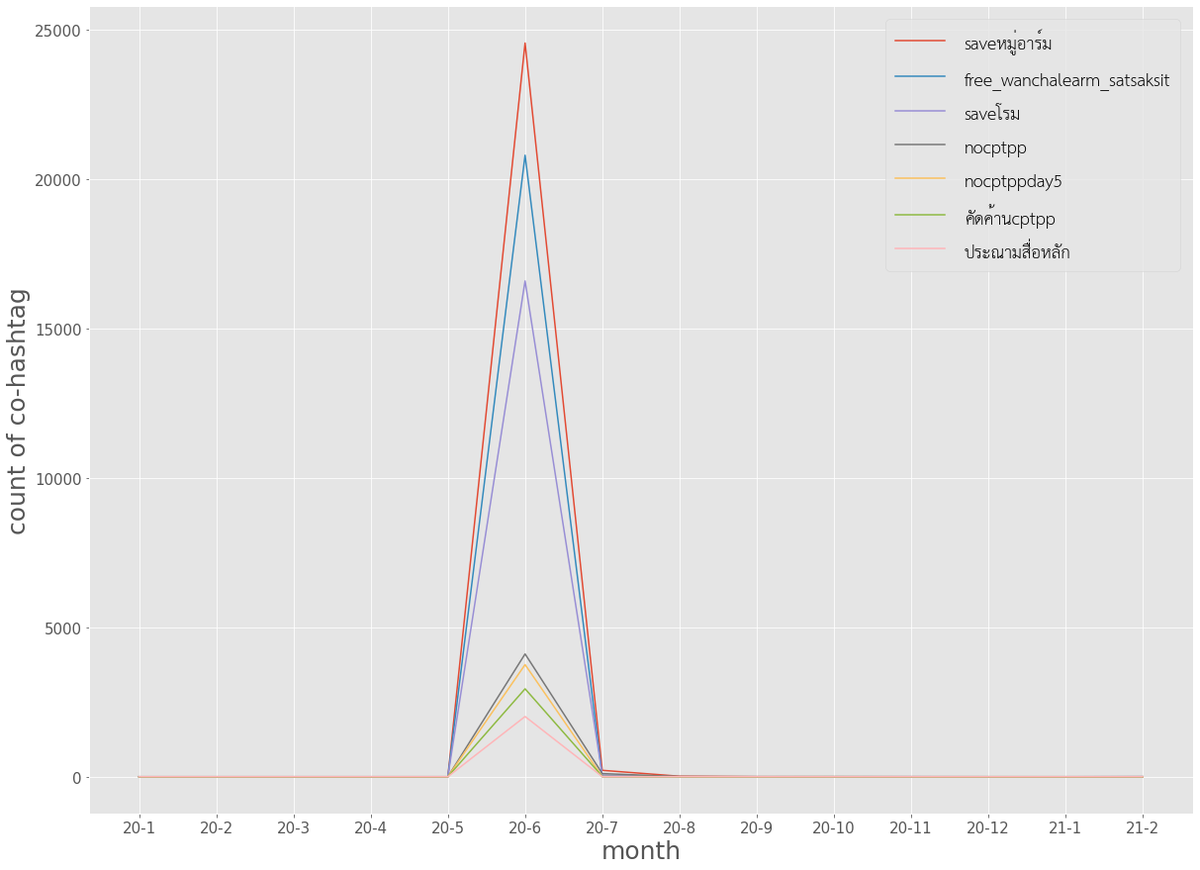
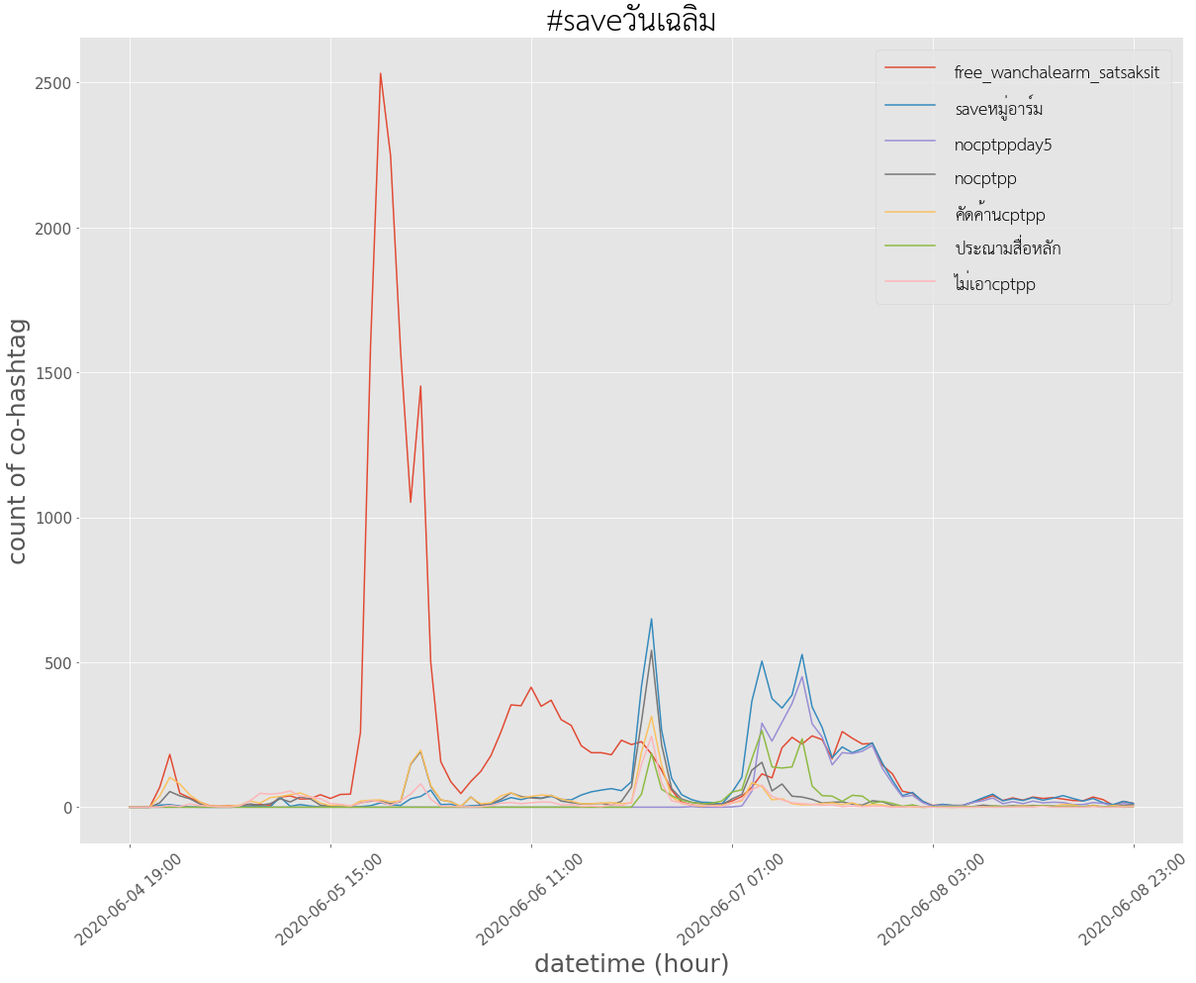
update

diff --git a/reports/events/#saveวันเฉลิม.md b/reports/events/#saveวันเฉลิม.md
@@ -1,0 +1,94 @@
+# `#saveวันเฉลิม`
+
+2020-06-04 19:29:59 ~ 2021-02-28 23:42:19
+peak : __2020-06-05__ , 25721 tweets/day
+
+|||
+|:-:|:-:|
+|tweets that contain the phrase `saveวันเฉลิม` | __97,172__ |
+|tweets that contain the hashtag `#saveวันเฉลิม` | __97,151__ |
+|quote tweets that contain the phrase `saveวันเฉลิม` | __11,697__ |
+|||
+|tweets that contain the phrase `saveวันเฉลิม` __in period__ | __67,600__ |
+
+![count](https://raw.githubusercontent.com/nozomiyamada/twitter_analysis/main/graphs/event/saveวันเฉลิม_count.png)
+
+## oldest 5 tweets
+
+|date|username|tweet|retweet|
+|:-:|:-:|:-:|:-:|
+|[2020-06-04 19:29:59](https://twitter.com/paritchi/status/1268520373798055937)|paritchi|#saveวันเฉลิม #112มีไว้ทำไม|13|
+|[2020-06-04 21:11:59](https://twitter.com/paritchi/status/1268546043555315713)|paritchi|หลังจากที่เคลียร์กับผู้เกี่ยวข้องแล้วเห็นว่าเผยแพร่ได้แล้วจึงขอทวีตอีกครั้ง  ตอนนี้ได้ข่าวว่ามีผู้ลี้ภัยมาตรา 112 พี่วันเฉลิม สัตย์ศักดิ์สิทธิ์ ถูกอุ้มขึ้นรถเก๋งหายไปจากหน้าคอนโดที่พนมเปญตั้งแต่ช่วง 4 โมงเย็น ติดต่อไม่ได้ตอนนี้ยังไม่ทราบชะตากรรม   #มาตรา112 #ม112 #saveวันเฉลิม|2838|
+|[2020-06-04 21:15:18](https://twitter.com/qizle/status/1268546878158901250)|qizle|สรุปโดนอุ้มจริงๆแล้ว และทำตอนที่มีข่าวอื่นด้วย #saveวันเฉลิม|486|
+|[2020-06-04 21:22:22](https://twitter.com/Gf_Yrd/status/1268548654798974978)|gf_yrd|รบกวนพวกดาราเซเลบที่เรียกร้องBLMสนใจทางนี้นิดนึงค่ะ  #saveวันเฉลิม|104|
+|[2020-06-04 21:26:10](https://twitter.com/SetSari/status/1268549610349395972)|setsari|@paritchi #saveวันเฉลิม|2|
+
+
+## most popular 5 tweets
+
+|date|username|tweet|retweet|
+|:-:|:-:|:-:|:-:|
+|[2020-06-05 18:19:42](https://twitter.com/withpepe_/status/1268865073834889216)|withpepe_|ไอ้เหี้ย fact คือคุณวันเฉลิมไม่ได้พุ่งเป้าวิจารณ์สถาบัน แต่วิจารณ์คสช. การวิจารณ์คสช.เป็นโทษตายตั้งแต่เมื่อไหร่? ปท.ไทยกลายเป็นรัฐเผด็จการตั้งแต่เมื่อไหร่? ประชาชนผู้ทรงสิทธิ์ทั้งหลายลุกขึ้นมาเถิด คุณวันเฉลิมและเหล่านักเคลื่อนไหวจะต้องไม่ตายฟรี ! ! #saveวันเฉลิม #ripวันเฉลิม|66884|
+|[2020-06-05 17:17:52](https://twitter.com/TOTOPiyarat/status/1268849510794424322)|totopiyarat|กาฬสินธุ์ เริ่มผุดไอเดีย ป้ายอุ้มวันเฉลิม  ตามมุมเมือง #saveวันเฉลิม  https://t.co/cUSYeAYVgB|49341|
+|[2020-06-04 22:29:30](https://twitter.com/Buffalow19/status/1268565551279816704)|buffalow19|จะต้องมีอีกกี่คนที่หายไปโดยไม่เหลือแม้แต่เศษซากความเป็นมนุษย์ด้วยซ้ำ #Saveวันเฉลิม  https://t.co/SJSn77VduT|45846|
+|[2020-06-06 09:02:44](https://twitter.com/sunaibkk/status/1269087294700482561)|sunaibkk|มีทั้งหลักฐานจากกล้องวงจรปิด มีทั้งพยานที่เห็นเหตุการณ์ แต่ตำรวจกัมพูชาปฏิเสธไม่สอบสวนกรณี”วันเฉลิม สัตย์ศักดิ์สิทธิ์”ผู้ลี้ภัยชาวไทยถูกมือปืนลักพาตัวในกรุงพนมเปญ แถมยังกล่าวหาว่าเรื่องทั้งหมดเป็นข่าวปลอม ทำให้สงสัยว่าทางการกัมพูชามีเอี่ยวอะไรด้วยหรือเปล่า? #saveวันเฉลิม|44479|
+|[2020-06-06 05:47:51](https://twitter.com/Chinki_sanji/status/1269038252217917440)|chinki_sanji|เห็นภาพนี้แล้วแม่งจุกวะ สรุปคนไทยไม่มีสิทธิแสดงความเห็นต่างห่าอะไรเลยกับประเทศนี้ #saveวันเฉลิม  https://t.co/F9qbwpphmY|42886|
+
+
+## frequent co-hashtags & co-occurrent words
+
+|co-hashtag|count|frequent words|oldest|popular|
+|:-:|:-:|:-:|:-:|:-:|
+|#saveวันเฉลิม|68402|เฉลิม(79600) คน(10899) หมู่(7953) อาร์ม(7945) เรื่อง(5365) คัดค้าน(4148) อุ้ม(4073) ประเทศ(3940) ทำ(3780) สื่อ(3664)|[2020-06-04 19:29:59](https://twitter.com/paritchi/status/1268520373798055937)<br>[@paritchi](https://twitter.com/paritchi)<br><br>#saveวันเฉลิม #112มีไว้ทำไม|[2020-06-05 18:19:42](https://twitter.com/withpepe_/status/1268865073834889216)<br>[@withpepe_](https://twitter.com/withpepe_)<br>66884 retweets<br><br>ไอ้เหี้ย fact คือคุณวันเฉลิมไม่ได้พุ่งเป้าวิจารณ์สถาบัน แต่วิจารณ์คสช. การวิจารณ์คสช.เป็นโทษตายตั้งแต่เมื่อไหร่? ปท.ไทยกลายเป็นรัฐเผด็จการตั้งแต่เมื่อไหร่? ประชาชนผู้ทรงสิทธิ์ทั้งหลายลุกขึ้นมาเถิด คุณวันเฉลิมและเหล่านักเคลื่อนไหวจะต้องไม่ตายฟรี ! ! #saveวันเฉลิม #ripวันเฉลิม|
+|#free_wanchalearm_satsaksit|20565|เฉลิม(20810) หมู่(2399) อาร์ม(2399) แท็ก(857) นะคะ(776) ขออนุญาต(757) คัดค้าน(412) เรื่อง(217) คน(207) ช่วยกัน(194)|[2020-06-04 22:21:17](https://twitter.com/PPRP_Unofficial/status/1268563483898961922)<br>[@pprp_unofficial](https://twitter.com/pprp_unofficial)<br><br>จากประเด็นผู้ลี้ภัยทางการเมืองถูกอุ้มที่พนมเปญ เราควรใช้แท็กไหนดี? ระหว่าง . #Free_Wanchalearm_Satsaksit กับ #Saveวันเฉลิม|[2020-06-04 22:40:44](https://twitter.com/prempmst/status/1268568378257498112)<br>[@prempmst](https://twitter.com/prempmst)<br>6967 retweets<br><br>ฝ่ายหนึ่งตายกันจริงๆ ตายกันเป็นผักเป็นปลา ตายกันง่ายตาย ฆ่าโบกปูนกลบร่องรอยโยนทิ้งน้ำ ทำทองไม่รู้ร้อนใครถามก็บอกไม่เกี่ยว ทำเหมือนเค้าไม่ใช่คน โหดร้ายเกินบรรยาย ไอ้พวกเหี้ย  #Saveวันเฉลิม #Free_Wanchalearm_Satsaksit|
+|#saveหมู่อาร์ม|7583|เฉลิม(8021) หมู่(7892) อาร์ม(7892) คัดค้าน(2272) สื่อ(1462) หลัก(1334) ประณาม(1284) แท็ก(689) คน(650) นะคะ(441)|[2020-06-04 22:32:36](https://twitter.com/_KayAlynn/status/1268566329595817984)<br>[@_kayalynn](https://twitter.com/_kayalynn)<br><br>หมู่อาร์มเปิดเผยเรื่องทุจริตในกองทัพ ไม่มีสักนายที่จะไปหนุนหลังเขา #Saveหมู่อาร์ม แต่ประชาชนไร้อาวุธพร้อมใจกันบุกไปอุ้มเขาพร้อมอาวุธ กล้าหาญชาญชัยมาก ขอให้เจริญๆ นะ ทำอะไรใครไว้ขอให้ย้อนกลับไปหาตัวเอง และให้ย้อนกลับไปคนอยู่เบื้องหลังมากกว่าร้อยเท่าพันเท่า #Saveวันเฉลิม|[2020-06-05 20:20:23](https://twitter.com/wwwiwww_/status/1268895445893263361)<br>[@wwwiwww_](https://twitter.com/wwwiwww_)<br>20414 retweets<br><br>นอกจาก #saveวันเฉลิม แล้ว วันนี้อยากให้ #saveหมู่อาร์ม ด้วยอีกคนค่ะ คนนี้ก็กล้าหาญมากๆเหมือนกันที่ออกมาแฉความทุเรศของวงการทหาร และไม่ได้รับความเป็นธรรมอีกแล้ว  https://t.co/VbWCoJFMa9|
+|#nocptppday5|3780|เฉลิม(4080) หมู่(3805) อาร์ม(3805) สื่อ(857) หลัก(830) ประณาม(817) แท็ก(288) คัดค้าน(275) นะคะ(167) ดัน(134)|[2020-06-07 03:31:43](https://twitter.com/borahaeforest/status/1269366379573964800)<br>[@borahaeforest](https://twitter.com/borahaeforest)<br><br>#saveวันเฉลิม #saveหมู่อาร์ม #NoCptppDay4 #NoCptppDay5 #NoCPTPP #คัดค้านCPTTP ช่วยๆกันนะคะ อันดับร่วงไปเยอะเลย ตอนนี้ต้องพึ่งplatformนี้เท่านั้น ในเมื่อสื่อไม่เข้าข้างพวกเราประชาชนเลย รัฐก็กระทำความเหี้ยแถมเมินเฉยสิทธิ์เสียงของประชาชนอีก ช่วยๆกันนะคะ เราต้องช่วยกันเองแล้วㅠㅠ|[2020-06-07 10:08:04](https://twitter.com/Lukasi_chp/status/1269466125516996608)<br>[@lukasi_chp](https://twitter.com/lukasi_chp)<br>3529 retweets<br><br>แท็กที่ต้องปั่นตอนนี้คือ #saveวันเฉลิม ผู้ลี้ภัยถูกอุ้มหาย #NoCPTPPDay5 ข้อตกลงกระทบเศรษฐกิจและปากท้อง #ประณามสื่อหลัก เรียกร้องให้สื่อใหญ่นำเสนอประเด็นสำคัญ  ตอนนี้มีประเด็นวิจารณ์บุคคลต่าง ๆ โดยส่วนตัวอยากให้เน้นที่ตัวเรื่องมากกว่าปฏิกิริยาของบุคคล|
+|#nocptpp|3308|เฉลิม(3446) คัดค้าน(2524) หมู่(1950) อาร์ม(1950) สื่อ(502) หลัก(398) ประณาม(378) แท็ก(354) เรื่อง(343) คน(277)|[2020-06-04 22:06:40](https://twitter.com/cherieslee/status/1268559801413320711)<br>[@cherieslee](https://twitter.com/cherieslee)<br><br>ทุกคนตามเรื่องนี้ด้วยนะ #saveวันเฉลิม ดันไปพร้อมๆกับ blm แล้วก็ #NoCPTPP #คัดค้านCPTPP|[2020-06-06 22:03:52](https://twitter.com/alynayed/status/1269283875953442821)<br>[@alynayed](https://twitter.com/alynayed)<br>4955 retweets<br><br>ไม่ว่ายังไง ตอนนี้เราควรสนใจประเด็นเรื่องนี้กันก่อนนะคะ อย่าเพิ่งไปหลงสนใจพ้อยอื่น ช่วยกันดันแท็กอย่าให้หายไป ขอร้องแค่อยากให้ทุกคนช่วยรีทวิตนี้กับรีพลายทีค่ะ ขอบคุณทุกคนล่วงหน้าจริงๆที่ให้ความร่วมมือ #ไม่เอาCPTPP #NoCPTPP #คัดค้านCPTTP #saveหมู่อาร์ม #saveวันเฉลิม|
+|#คัดค้านcptpp|2731|เฉลิม(2925) คัดค้าน(2842) อาร์ม(1231) หมู่(1230) สื่อ(371) เรื่อง(286) แท็ก(286) หลัก(284) คน(275) ประณาม(261)|[2020-06-04 22:06:40](https://twitter.com/cherieslee/status/1268559801413320711)<br>[@cherieslee](https://twitter.com/cherieslee)<br><br>ทุกคนตามเรื่องนี้ด้วยนะ #saveวันเฉลิม ดันไปพร้อมๆกับ blm แล้วก็ #NoCPTPP #คัดค้านCPTPP|[2020-06-06 04:44:01](https://twitter.com/gnlzzp/status/1269022186481713152)<br>[@gnlzzp](https://twitter.com/gnlzzp)<br>12944 retweets<br><br>แทนที่ #saveวันเฉลิม หรือ #คัดค้านCPTPP จะได้ขึ้นเทรนอันดับหนึ่ง สุดท้ายกลายเป็น #บ่นเพื่อน ได้ซีนแทน โดนลดระดับความซีเรียสของการละเมิดสิทธิมนุษยชนหรือการพยายามอุ้มกลุ่มนายทุนของรัฐบาลไปเหลือแค่การรุมด่าดาราที่เอาจริงๆ ก็ไม่รู้ด้วยซ้ำว่าเขาแซะตามที่กล่าวหาจริงมั้ยอะ กูล่ะเครียด|
+|#ประณามสื่อหลัก|1976|สื่อ(2263) เฉลิม(2048) หลัก(2034) ประณาม(1986) หมู่(1287) อาร์ม(1287) คัดค้าน(527) ข่าว(294) คน(260) แท็ก(233)|[2020-06-06 22:14:34](https://twitter.com/ksk_jyoy/status/1269286567496962048)<br>[@ksk_jyoy](https://twitter.com/ksk_jyoy)<br><br>#ประณามสื่อหลัก แค่เสนอข่าวสักนิดต่อให้แค่ 10 วิมันก็ต้องมีบ้างที่คนอื่นจะได้ฟัง ทุกคนในประเทศไม่ได้เล่นทวิต ไม่มีทางรับรู้ แต่สื่อทำให้เค้ารับรู้ได้ แต่เลือกที่จะไม่ทำ #saveวันเฉลิม #saveหมู่อาร์ม #NoCPTPP|[2020-06-07 07:55:16](https://twitter.com/kittiponpresent/status/1269432705856331776)<br>[@kittiponpresent](https://twitter.com/kittiponpresent)<br>4689 retweets<br><br>เรามาร่วมกันยืนเคียงข้างความยุติธรรม เรียกร้องไม่ให้การอุ้มหาย และการข่มขู่คุกคามเพราะทัศนคติทางเมืองเกิดขึ้นอีก ขอย้ำว่าเรื่องของ #วันเฉลิม 'คือเรื่องของเราทุกคน'  #saveวันเฉลิม #ประณามสื่อหลัก  https://t.co/AKGhq1SrAo|
+|#ไม่เอาcptpp|1687|เฉลิม(1937) คัดค้าน(1125) หมู่(961) อาร์ม(957) สื่อ(194) นะคะ(152) รี(152) เรื่อง(146) แท็ก(144) คน(139)|[2020-06-04 22:59:59](https://twitter.com/khunhobbes/status/1268573221286273024)<br>[@khunhobbes](https://twitter.com/khunhobbes)<br><br>ย้ายจาก #คัดค้านCPTPP มาเป็น #ไม่เอาCPTPP กันนะทุกคน อันเก่ามันหลุดเทรนแล้ว  #saveวันเฉลิม|[2020-06-05 20:29:47](https://twitter.com/0_MMXX_0/status/1268897810251788292)<br>[@0_mmxx_0](https://twitter.com/0_mmxx_0)<br>8204 retweets<br><br>ถ้าไม่ทวิต แค่รีก็ได้ เห็นก็รีต่อก็พอ มันเป็นอนาคตของเราจริงๆ แค่นี้ก็ลำบากพออยู่แล้ว อนาคตลำบากกว่านี้แน่นอน ถ้าเรื่องนี้ถูกอนุมัติ   #saveวันเฉลิม #RIPวันเฉลิม #ไม่เอาCPTPP  https://t.co/irsMa1L8gz|
+|#ripวันเฉลิม|1478|เฉลิม(3256) คน(518) ประเทศ(273) อุ้ม(208) ตาย(204) เหี้ย(165) ไทย(154) เรื่อง(149) ข่าว(146) ทำ(145)|[2020-06-05 13:14:45](https://twitter.com/LastIFound/status/1268788332164550658)<br>[@lastifound](https://twitter.com/lastifound)<br><br>เหตุเกิดในกัมพูชา คุณต้องไปเรียกร้องกับกัมพูชาครับ ไม่ใช่เรียกร้องกับรับบาลไทย  #saveวันเฉลิม #RIPวันเฉลิม|[2020-06-05 18:19:42](https://twitter.com/withpepe_/status/1268865073834889216)<br>[@withpepe_](https://twitter.com/withpepe_)<br>66884 retweets<br><br>ไอ้เหี้ย fact คือคุณวันเฉลิมไม่ได้พุ่งเป้าวิจารณ์สถาบัน แต่วิจารณ์คสช. การวิจารณ์คสช.เป็นโทษตายตั้งแต่เมื่อไหร่? ปท.ไทยกลายเป็นรัฐเผด็จการตั้งแต่เมื่อไหร่? ประชาชนผู้ทรงสิทธิ์ทั้งหลายลุกขึ้นมาเถิด คุณวันเฉลิมและเหล่านักเคลื่อนไหวจะต้องไม่ตายฟรี ! ! #saveวันเฉลิม #ripวันเฉลิม|
+|#คัดค้านcpttp|1210|เฉลิม(1241) คัดค้าน(1237) หมู่(1018) อาร์ม(1018) สื่อ(316) หลัก(268) ประณาม(256) เรื่อง(90) แท็ก(90) คน(86)|[2020-06-05 11:16:46](https://twitter.com/pinniewong/status/1268758639621189632)<br>[@pinniewong](https://twitter.com/pinniewong)<br><br>ขอคนละรีให้ต้นทวิตเถอะขอร้องผักที่กินดอกไม้ยาต่างๆจะกลายเป็นสิ่งผิดกฏหมายนะ #NoCPTTP #ไม่เอาCPTPP #คัดค้านCPTPP #มองนมไม่ผิด #saveวันเฉลิม #คัดค้านCPTTP #คัดค้านCPTPPpls #คัดค้านCPTTP|[2020-06-06 22:03:52](https://twitter.com/alynayed/status/1269283875953442821)<br>[@alynayed](https://twitter.com/alynayed)<br>4955 retweets<br><br>ไม่ว่ายังไง ตอนนี้เราควรสนใจประเด็นเรื่องนี้กันก่อนนะคะ อย่าเพิ่งไปหลงสนใจพ้อยอื่น ช่วยกันดันแท็กอย่าให้หายไป ขอร้องแค่อยากให้ทุกคนช่วยรีทวิตนี้กับรีพลายทีค่ะ ขอบคุณทุกคนล่วงหน้าจริงๆที่ให้ความร่วมมือ #ไม่เอาCPTPP #NoCPTPP #คัดค้านCPTTP #saveหมู่อาร์ม #saveวันเฉลิม|
+|#บ่นเพื่อน|879|เฉลิม(913) เพื่อน(879) บ่น(859) คน(387) เรื่อง(181) ดารา(164) เค้า(146) สลิ่ม(133) แก้ม(128) ออกมา(123)|[2020-06-05 22:45:40](https://twitter.com/onceinbluelunar/status/1268932004923404289)<br>[@onceinbluelunar](https://twitter.com/onceinbluelunar)<br><br>เรื่อง #บ่นเพื่อน อันนี้ก็...นะ แต่อย่าเพิ่งเหมารวมพี่โดม พี่โดมยังรีทวิต #saveวันเฉลิม อยู่เลย|[2020-06-06 03:44:37](https://twitter.com/woman_corner/status/1269007237340524550)<br>[@woman_corner](https://twitter.com/woman_corner)<br>28637 retweets<br><br>หนี้มาแล้วทุกคน อีสัส ประกาศเวลา 02:10:37 #บ่นเพื่อน #saveวันเฉลิม  https://t.co/dhZTLSG11n|
+|#ปูไปรยา|583|เฉลิม(665) ปู(663) ยา(607) คน(216) เรื่อง(145) การเมือง(109) ทำ(84) ประเทศ(77) ดารา(76) ผู้ลี้ภัย(74)|[2020-06-06 23:13:43](https://twitter.com/YesIAm24713000/status/1269301452612096000)<br>[@yesiam24713000](https://twitter.com/yesiam24713000)<br><br>พี่ปูวว ไม่น่าเลย กูว่าละ ปูไม่ยุ่งการเมือง ถ้าคุณไม่ไฟท์เรื่อง #saveวันเฉลิม เพื่อนมนุษย์ที่ถูกคุกคามทำร้าย งานที่คุณทำก็สูญเปล่าค่ะ ผู้ลี้ภัยมันเรื่องปลายเหตุ #ปูไปรยา|[2020-06-07 09:54:03](https://twitter.com/tanawatofficial/status/1269462598283599873)<br>[@tanawatofficial](https://twitter.com/tanawatofficial)<br>23862 retweets<br><br>#ปูไปรยา เป็นทูต UNHCR ทำงานเรื่องผู้ลี้ภัย แต่ปฏิเสธการช่วยผู้ลี้ภัยอย่างวันเฉลิม อ้างว่าไม่ยุ่งการเมือง แค่ทำงานสิทธิมนุษยชน  สิทธิมนุษยชนเกี่ยวกับการเมือง การช่วยวันเฉลิมคือการปกป้องสิทธิในความเป็นมนุษย์ของเขา  ช่วยโรฮิงญาได้ แต่ช่วยเพื่อนร่วมชาติของตัวเองไม่ได้  #saveวันเฉลิม  https://t.co/qwokC5OoF5|
+|#ยกเลิก112|529|เฉลิม(598) ยกเลิก(587) หมู่(156) อาร์ม(154) คน(103) คัดค้าน(54) ไทย(46) พร(43) สื่อ(42) ประเทศ(40)|[2020-06-07 15:18:17](https://twitter.com/jemapellepim/status/1269544192180510721)<br>[@jemapellepim](https://twitter.com/jemapellepim)<br><br>#ยกเลิก112 #saveวันเฉลิม|[2020-06-07 20:00:38](https://twitter.com/JBuchananBKK/status/1269615249197498372)<br>[@jbuchananbkk](https://twitter.com/jbuchananbkk)<br>3416 retweets<br><br>Chotisak Onsoong, who was once prosecuted for not standing for the royal anthem at the cinema, is calling for a protest tomorrow outside the Cambodian embassy.  #ยกเลิก112 #saveวันเฉลิม  https://t.co/DFS5AcdepZ|
+|#savewanchalerm|501|เฉลิม(606) รี(136) ญา(126) คน(83) อุ้ม(47) สื่อ(39) เรื่อง(38) หาย(37) ไทย(34) รัฐบาล(30)|[2020-06-04 23:13:40](https://twitter.com/Sxrv_X/status/1268576665946316800)<br>[@sxrv_x](https://twitter.com/sxrv_x)<br><br>กูพูดเลยว่าพร้อมรบโซเชียลกับดาราสลิ่มหลายแหล่ทั้งวงการ   ใครออกมาลงรูปหรือโพสท์ #savewanchalerm #Saveวันเฉลิม กูจะเชิดชู ดาราคนนั้นเลยมา|[2020-06-08 16:55:55](https://twitter.com/madmax68176958/status/1269931150572531712)<br>[@madmax68176958](https://twitter.com/madmax68176958)<br>33785 retweets<br><br>ทุกคนนนน  #มารีญา เลือกดื่มน้ำ อควาฟิน่า สนับสนุนงานน้องกัน  เนี้ย!!! คนแบบนี้ที่ต้องสนับสนุน ที่สำคัญ ควาฟิน่าเป็นของ บ.เป๊ปซี่ เช็คแล้วว่าเป็นบริษัทที่ไม่บริจาคเงินให้ป่ารอยต่อด้วย มันดี!!! #saveวันเฉลิม #savewanchalerm  https://t.co/xbMOhUCNpI|
+|#วันเฉลิม|474|เฉลิม(1037) คน(126) อุ้ม(121) กัมพูชา(72) เรื่อง(71) ไทย(71) หาย(57) หมู่(57) อาร์ม(57) ข่าว(48)|[2020-06-05 11:41:36](https://twitter.com/MoonqueeNI/status/1268764888534376453)<br>[@moonqueeni](https://twitter.com/moonqueeni)<br><br>หรือว่า #เอ๋ปารีณา ออกมาปั่นปิดข่าว เกี่ยวกับ #วันเฉลิม ที่โดนลักพาตัวไปด้วย #saveวันเฉลิม เพราะว่าโดนลักพาตัวเมื่อวานวันที่4 ที่ผ่านมา|[2020-06-05 22:03:31](https://twitter.com/pnm_moji/status/1268921396861628416)<br>[@pnm_moji](https://twitter.com/pnm_moji)<br>11470 retweets<br><br>ใครที่ยังไม่รู้ที่มาที่ไป เพจนี้เขาสรุปมาให้แล้ว ขออนุญาตเจ้าของเพจ #saveวันเฉลิม #RIPวันเฉลิม  #วันเฉลิม  https://t.co/YVw3NAS72N|
+
+![hashtag](https://raw.githubusercontent.com/nozomiyamada/twitter_analysis/main/graphs/event/saveวันเฉลิม_hashtag.png)
+
+## LDA
+
+> keywords
+
+|rank|topic 1||topic 2||topic 3||topic 4||topic 5||
+|:-:|:-:|:-:|:-:|:-:|:-:|:-:|:-:|:-:|:-:|:-:|
+|1|เฉลิม|0.089|เฉลิม|0.033|เฉลิม|0.066|เฉลิม|0.824|เฉลิม|0.110|
+|2|คน|0.056|ปา|0.021|เหี้ย|0.040|คัดค้าน|0.043|นะคะ|0.056|
+|3|ประเทศ|0.028|รี|0.020|ข่าว|0.035|หมู่|0.021|แท็ก|0.045|
+|4|อุ้ม|0.026|ณา|0.020|คน|0.026|อาร์ม|0.021|อย่า|0.030|
+|5|โดน|0.018|เอ๋|0.020|ทำ|0.024|โดยทันที|0.003|ดัน|0.027|
+|6|แบบนี้|0.016|นม|0.013|อี|0.021|แท๊ก|0.002|เรื่อง|0.024|
+|7|กี่|0.013|ส้นตีน|0.012|เรื่อง|0.021|จุก|0.002|ช่วยกัน|0.021|
+|8|หาย|0.013|กัมพูชา|0.012|แม่|0.017|ครึ่ง|0.001|คัดค้าน|0.019|
+|9|ฆ่า|0.012|ไทย|0.012|อะ|0.015|รอยต่อ|0.001|เงียบ|0.015|
+|10|ชีวิต|0.012|ผู้ลี้ภัย|0.009|ประเทศ|0.014|พินาศ|0.001|สื่อ|0.015|
+
+> prediction examples (probability distribution)
+
+|tweet|topic|prob of 1|2|3|4|5|
+|:-:|:-:|:-:|:-:|:-:|:-:|:-:|
+|@tgracet2 In the most unacceptable injustice, he still needs our voice 1. rt 2. reply with #saveวันเฉลิม #Free_Wanchalearm_Satsaksit 3. tags ppl : @ppphone_|4|0.100|0.100|0.100|0.599|0.100|
+|หืมมมม #ปูไปรยา #saveวันเฉลิม  https://t.co/2Ic8NuXCHr|3|0.040|0.040|0.456|0.423|0.040|
+|@Decem2005 @Privateii @dearmysnowball @bellebellenn @ilovemybrightvc @sssLSg7 @nqmqx_ In the most unacceptable injustice, he still needs our voice 1. rt 2. reply with #saveวันเฉลิม #Free_Wanchalearm_Satsaksit 3. tags ppl : @nnpxytt @pwithbwx @imchp_ @sunnyybb @__onceihadyou|4|0.100|0.100|0.100|0.599|0.100|
+|@NSkilala #saveวันเฉลิม|4|0.100|0.100|0.100|0.599|0.100|
+|ขอให้ปลอดภัยค่ะ #saveวันเฉลิม|1|0.634|0.050|0.050|0.216|0.050|
+|@fromtheleast In the most unacceptable injustice, he still needs our voice 1. rt 2. reply with #saveวันเฉลิม #Free_Wanchalearm_Satsaksit 3. tags ppl : @oohsent @rosyamasaka @_debniwt|4|0.100|0.100|0.100|0.599|0.100|
+|#savehrk #saveวันเฉลิม  #saveพี่ดอก|2|0.050|0.370|0.050|0.254|0.275|
+|@JEONJKKIE97 10 you edok #saveวันเฉลิม #Free_Wanchalearm_Satsaksit #คัดค้านCPTPP #NoCPTPP|4|0.067|0.067|0.067|0.733|0.067|
+|@starknow98 In the most unacceptable injustice, he still needs our voice 1. rt 2. reply with #saveวันเฉลิม  @0315p_ @26bobo_ @_pppri @quandarykang|4|0.100|0.100|0.100|0.599|0.100|
+|@pp_peng2 In the most unacceptable injustice, he still needs our voice 1. rt 2. reply with #saveวันเฉลิม #Free_Wanchalearm_Satsaksit 3. tags ppl : @justyesteryear @effoooo @Apologize4234 @AnniieYim @gtcomics @mydoyoung1996|4|0.100|0.100|0.100|0.599|0.100|
+
+> timeseries
+
+![topic](https://raw.githubusercontent.com/nozomiyamada/twitter_analysis/main/graphs/event/saveวันเฉลิม_topic.png)

diff --git a/reports/events/#16ตุลาไปแยกปทุมวัน.md b/reports/events/#16ตุลาไปแยกปทุมวัน.md
@@ -61,11 +61,33 @@ peak : __2020-10-16__ , 282877 tweets/day
 
 > keywords
 
-
+|rank|topic 1||topic 2||topic 3||topic 4||topic 5||
+|:-:|:-:|:-:|:-:|:-:|:-:|:-:|:-:|:-:|:-:|:-:|
+|1|น้ำ|0.096|ปทุม|0.066|ตุลา|0.305|ตุลา|0.082|ชุมนุม|0.071|
+|2|ย้าย|0.051|แยก|0.063|ปทุม|0.287|แยก|0.080|แยก|0.042|
+|3|นะคะ|0.043|ตุลา|0.061|แยก|0.278|ปทุม|0.080|ตุลา|0.036|
+|4|ตุลา|0.041|นะคะ|0.050|ราชประสงค์|0.057|เหี้ย|0.045|สถานี|0.036|
+|5|ปทุม|0.035|คน|0.034|ม็อบ|0.021|ประชาชน|0.039|สยาม|0.031|
+|6|จุฬา|0.034|อย่า|0.027|ม๊อบ|0.009|ตำรวจ|0.026|ปทุม|0.030|
+|7|แยก|0.032|อี|0.015|ลา|0.002|ทำ|0.021|ราช|0.027|
+|8|ฉีด|0.030|ขอให้|0.014|ปลดแอก|0.002|ไอ้|0.011|สนามกีฬา|0.024|
+|9|ห้าม|0.027|ปลอดภัย|0.012|ตุ|0.002|ทำร้าย|0.011|สามย่าน|0.024|
+|10|กระจาย|0.023|อะ|0.011|ค้าบ|0.002|อ่ะ|0.011|น.|0.022|
 
 > prediction examples (probability distribution)
 
-
+|tweet|topic|prob of 1|2|3|4|5|
+|:-:|:-:|:-:|:-:|:-:|:-:|:-:|
+|‼ช่วยก๊อปข้อความกระจายข่าวทีนะคะ‼  เส้นทางการเดินทางกลับ  BTS ศาลาแดง MRT สีลม(แถวสวนลุมพินี) กับวัดมังกร(เยาวราช)  ขอให้ออกจากพื้นที่โดยด่วนค่ะ ‼‼ #whatishappeninginthailand #ม็อบ16ตุลา #16ตุลาไปแยกปทุมวัน #16ตุลาไปแยกปทุมวัน|5|0.132|0.119|0.145|0.000|0.597|
+|ตำรวจอ่ะ ถ้าลูกตัวเองอยู่ในที่ชุมนุมจะทำแบบนี้มั้ย ลูกกับเจ้านาย เลือกอะไร ถามหน่อย #16ตุลาไปแยกปทุมวัน|4|0.013|0.258|0.014|0.629|0.086|
+|ขี้ข้าเผด็จการ!! #16ตุลาไปแยกปทุมวัน #ม็อบ16ตุลา|3|0.025|0.025|0.586|0.339|0.025|
+|😭😭😭 เกินไปจริงๆ เอาภาษีประชาชนมาทำร้ายประชาชน คำนี้แม่งฝังหัวมากมึง #16ตุลาไปแยกปทุมวัน|4|0.020|0.020|0.021|0.920|0.020|
+|ติดเทรนให้นานที่สุด #whatishappeninginthailand #16ตุลาไปแยกปทุมวัน #ม๊อบ16ตุลา #ปล่อยเพื่อนเรา #นายกขู่ฆ่าประชาชน #วชิราลงกรณ์เป็นฆาตกร  #หยุดทําร้ายประชาชน #whatshappeninginthailand  #PulteHelpsPeople #Iheartoo #restoredemocracyinThailand #violationofhumanrights #prayforthailand|4|0.010|0.011|0.010|0.766|0.203|
+|จุฬาฯปลอดภัยค่ะ #16ตุลาไปแยกปทุมวัน #whatishappeninginthailand|3|0.220|0.240|0.473|0.034|0.033|
+|ทุกคนระวังตัวด้วยนะคะ มันเริ่มรุนแรงขึ้นเรื่อยๆแล้ว #16ตุลาไปแยกปทุมวัน|2|0.029|0.397|0.325|0.221|0.029|
+|#16ตุลาไปแยกปทุมวัน|3|0.050|0.050|0.799|0.050|0.050|
+|ขนาดนี้แล้วที่บ้านกูยังดูข่าวทีวีแล้วสงสารตำรวจ สงสารนายก สงสารอิ10อยู่เลย นั่งขำนั่งเชียร์เย้วๆให้ตำรวจสลายชุมนุม เชียร์ให้ทำร้ายประชาชนมือเปล่า สงสารตัวเองก่อนมั้ย ยังมีความเป็นคนอยู่รึเปล่า ทั้งๆที่ตัวเองจะได้ประโยชน์จากการชุมนุมแท้ๆ  กุจะอ้วกอะ!!! #16ตุลาไปแยกปทุมวัน|4|0.000|0.379|0.000|0.520|0.091|
+|ก็อบ + รี ช่วยกันกระจายข่าว!!!!!!  ❗ยุติการชุมนุม ❗ ❗ยุติการชุมนุม ❗ ❗ยุติการชุมนุม ❗ ❗ยุติการชุมนุม ❗ ❗ยุติการชุมนุม ❗ ❗ยุติการชุมนุม ❗  #16ตุลาไปแยกปทุมวัน #ม็อบ16ตุลา ประกาศใช้กระสุนยางแล้ว ถอยเดี๋ยวนี้!!!!|5|0.430|0.000|0.000|0.000|0.549|
 
 > timeseries
 
